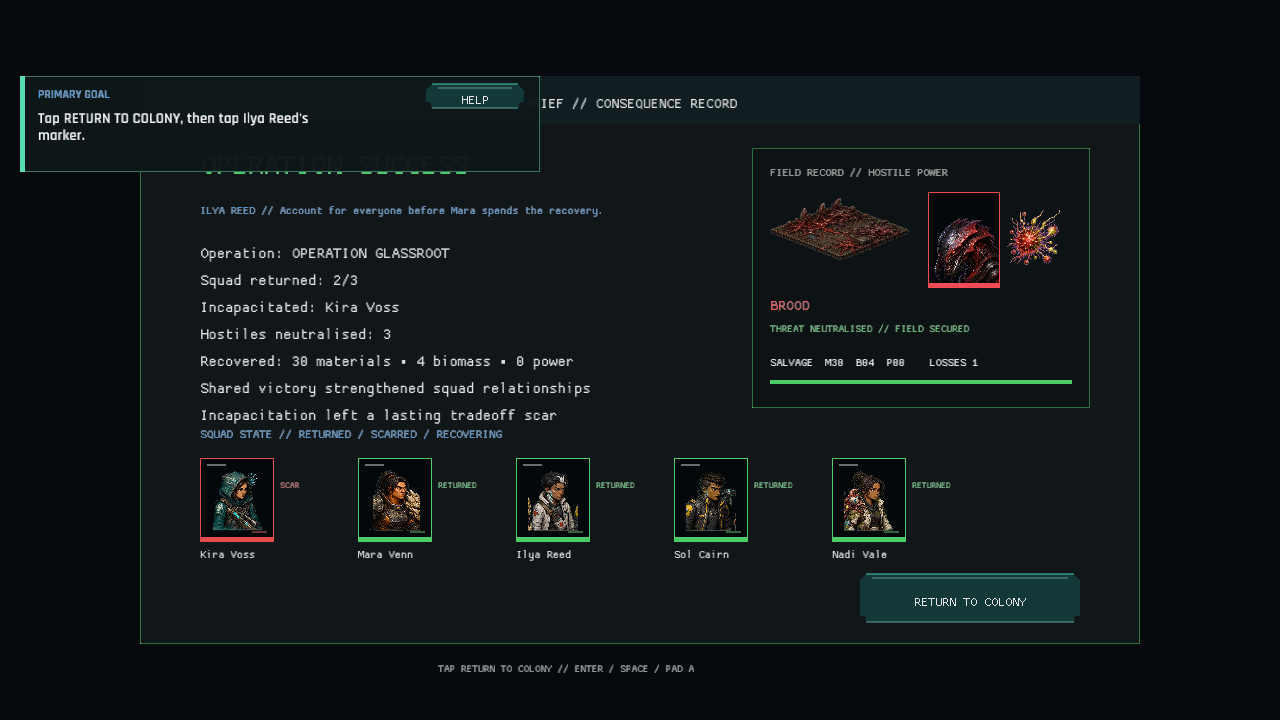
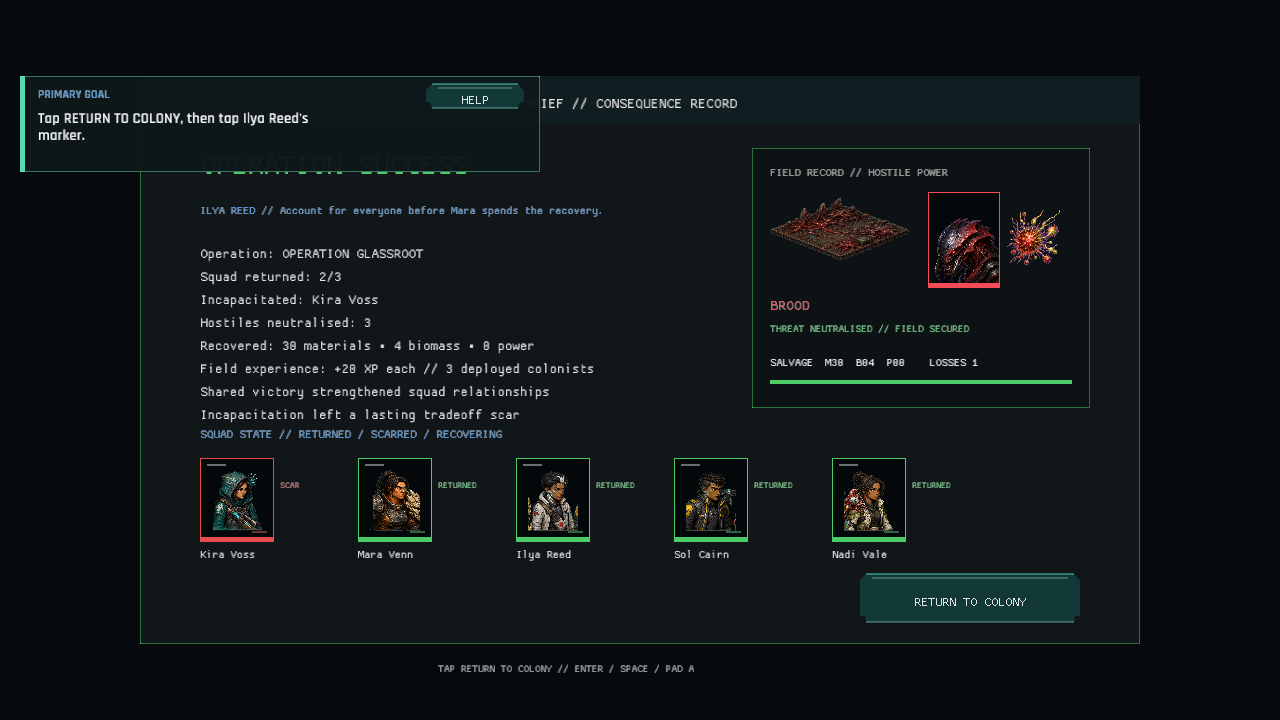
The mire records experience only for those who crossed the waterline (Deployed-squad XP attribution and debrief disclosure, §5.4)
Operation XP was being applied to the whole roster, allowing reserves to gain field experience without deploying. Centralize the victory and defeat XP values, award them only to the deployed squad, and disclose the per-colonist award in both victory and trauma debriefs. Add focused campaign and presentation tests, refresh the two affected captures, and advance the content record to 1.124.0 without adding save fields.

Changed region(s): [[0.1562, 0.3361, 0.4688, 0.5806]]

diff --git a/src/campaign/tests/test_part_1.rs b/src/campaign/tests/test_part_1.rs
@@ -276,6 +276,58 @@ fn squad_selection_enforces_reserves_and_a_three_colonist_limit() {
         .iter()
         .any(|unit| unit.id == "kira_voss"));
 }
+
+#[test]
+fn operation_xp_follows_the_deployed_squad() {
+    let data = GameData::load().unwrap();
+    let mut campaign = CampaignState::new(&data);
+    let deployed_id = campaign
+        .roster
+        .iter()
+        .find(|character| character.deployment_selected)
+        .unwrap()
+        .id
+        .clone();
+    let reserve_id = campaign
+        .roster
+        .iter()
+        .find(|character| !character.deployment_selected)
+        .unwrap()
+        .id
+        .clone();
+    let mission = campaign.strategy.selected_mission().unwrap().clone();
+    let outcome = MissionOutcome {
+        result: ObjectiveState::Victory,
+        colonists_deployed: SQUAD_LIMIT,
+        colonists_incapacitated: Vec::new(),
+        hostiles_neutralised: 2,
+        materials_awarded: 7,
+        biomass_awarded: 0,
+        power_awarded: 0,
+    };
+
+    campaign.apply_mission_outcome(&outcome, &mission, &data);
+
+    assert_eq!(
+        campaign
+            .roster
+            .iter()
+            .find(|character| character.id == deployed_id)
+            .unwrap()
+            .experience,
+        VICTORY_OPERATION_XP
+    );
+    assert_eq!(
+        campaign
+            .roster
+            .iter()
+            .find(|character| character.id == reserve_id)
+            .unwrap()
+            .experience,
+        0
+    );
+}
+
 #[test]
 fn injury_blocks_deployment_until_operations_recover_it() {
     let data = GameData::load().unwrap();

diff --git a/src/campaign.rs b/src/campaign.rs
@@ -33,6 +33,16 @@ use serde::{Deserialize, Serialize};
 use std::collections::BTreeMap;
 
 pub const SQUAD_LIMIT: usize = 3;
+pub const VICTORY_OPERATION_XP: u32 = 20;
+pub const FAILED_OPERATION_XP: u32 = 8;
+
+pub fn operation_experience(result: ObjectiveState) -> u32 {
+    match result {
+        ObjectiveState::Victory => VICTORY_OPERATION_XP,
+        ObjectiveState::Failed => FAILED_OPERATION_XP,
+        ObjectiveState::Active | ObjectiveState::Secured => 0,
+    }
+}
 
 #[derive(Debug, Clone, Copy, PartialEq, Eq, Serialize, Deserialize)]
 #[serde(rename_all = "snake_case")]
@@ -469,14 +479,16 @@ impl CampaignState {
         if outcome.result == ObjectiveState::Victory {
             self.strengthen_shared_victory(&deployed_ids);
         }
-        let xp = if outcome.result == ObjectiveState::Victory {
-            20
-        } else {
-            8
-        };
-        for character in &mut self.roster {
-            character.experience += xp;
-            character.level = 1 + (character.experience / 100).min(9) as u8;
+        let xp = operation_experience(outcome.result);
+        for character_id in &deployed_ids {
+            if let Some(character) = self
+                .roster
+                .iter_mut()
+                .find(|character| character.id == *character_id)
+            {
+                character.experience += xp;
+                character.level = 1 + (character.experience / 100).min(9) as u8;
+            }
         }
         crate::skill_training::learn_after_operation(self, &deployed_ids, data);
         self.apply_injury_consequences(outcome, data);

diff --git a/src/ui_debrief.rs b/src/ui_debrief.rs
@@ -11,6 +11,17 @@ use macroquad_toolkit::assets::AssetManager;
 use macroquad_toolkit::prelude::*;
 use macroquad_toolkit::ui::VirtualUi;
 
+#[cfg(test)]
+mod tests;
+
+fn experience_summary(outcome: &MissionOutcome) -> String {
+    format!(
+        "Field experience: +{} XP each // {} deployed colonists",
+        crate::campaign::operation_experience(outcome.result),
+        outcome.colonists_deployed
+    )
+}
+
 pub fn draw_debrief(
     mission: &MissionDef,
     outcome: &MissionOutcome,
@@ -111,6 +122,7 @@ pub fn draw_debrief(
             "Recovered: {} materials · {} biomass · {} power",
             outcome.materials_awarded, outcome.biomass_awarded, outcome.power_awarded
         ),
+        experience_summary(outcome),
     ];
     if won && outcome.colonists_deployed > 1 {
         report.push("Shared victory strengthened squad relationships".to_owned());
@@ -126,7 +138,7 @@ pub fn draw_debrief(
         report.push("Incapacitation left a lasting tradeoff scar".to_owned());
     }
     for (index, line) in report.iter().enumerate() {
-        draw_text(line, 200.0, 258.0 + index as f32 * 27.0, 19.0, dark::TEXT);
+        draw_text(line, 200.0, 258.0 + index as f32 * 23.0, 17.0, dark::TEXT);
     }
     draw_field_record(mission, outcome, assets, visuals, won);
     draw_squad_tableau(campaign, outcome, assets, visuals, won);

diff --git a/src/persistence/tests/first_hour.rs b/src/persistence/tests/first_hour.rs
@@ -20,7 +20,7 @@ fn previous_save_without_first_hour_fields_gains_safe_guidance() {
 
     let migrated = migrate_save_value(Some("1.63.0".to_owned()), value, &data).unwrap();
 
-    assert_eq!(migrated.version, "1.123.0");
+    assert_eq!(migrated.version, "1.124.0");
     assert_eq!(migrated.campaign.first_hour, FirstHourProgress::default());
     assert_eq!(migrated.campaign.first_hour.stage, FirstHourStage::Arrival);
     assert_eq!(
@@ -46,7 +46,7 @@ fn previous_save_without_colony_story_fields_gains_an_empty_ledger() {
 
     let migrated = migrate_save_value(Some("1.65.0".to_owned()), value, &data).unwrap();
 
-    assert_eq!(migrated.version, "1.123.0");
+    assert_eq!(migrated.version, "1.124.0");
     assert_eq!(
         migrated.campaign.colony_story,
         crate::colony_story::ColonyStoryState::default()
@@ -72,7 +72,7 @@ fn version_164_keeps_exact_onboarding_progress_and_defaults_metrics() {
 
     let migrated = migrate_save_value(Some("1.64.0".to_owned()), value, &data).unwrap();
 
-    assert_eq!(migrated.version, "1.123.0");
+    assert_eq!(migrated.version, "1.124.0");
     assert_eq!(
         migrated.campaign.first_hour.stage,
         FirstHourStage::SecondReturn

diff --git a/src/ui_debrief/tests.rs b/src/ui_debrief/tests.rs
@@ -1,0 +1,30 @@
+use super::*;
+use crate::state::ObjectiveState;
+
+fn outcome(result: ObjectiveState, colonists_deployed: usize) -> MissionOutcome {
+    MissionOutcome {
+        result,
+        colonists_deployed,
+        colonists_incapacitated: Vec::new(),
+        hostiles_neutralised: 0,
+        materials_awarded: 0,
+        biomass_awarded: 0,
+        power_awarded: 0,
+    }
+}
+
+#[test]
+fn experience_summary_discloses_victory_award_per_deployed_colonist() {
+    assert_eq!(
+        experience_summary(&outcome(ObjectiveState::Victory, 3)),
+        "Field experience: +20 XP each // 3 deployed colonists"
+    );
+}
+
+#[test]
+fn experience_summary_discloses_defeat_award_per_deployed_colonist() {
+    assert_eq!(
+        experience_summary(&outcome(ObjectiveState::Failed, 2)),
+        "Field experience: +8 XP each // 2 deployed colonists"
+    );
+}

diff --git a/docs/PHASE_1_ACCEPTANCE_MATRIX.md b/docs/PHASE_1_ACCEPTANCE_MATRIX.md
@@ -1,7 +1,7 @@
 # Phase 1 Acceptance Matrix
 
 Status: implementation evidence audited; observed-session gates pending
-Audit baseline: save/content 1.123.0, validated and committed with this matrix
+Audit baseline: save/content 1.124.0, validated and committed with this matrix
 
 This matrix maps every Phase 1 workstream and definition-of-done requirement to
 authoritative evidence. `VERIFIED` means code, tests, captures, or an operator-run path
@@ -17,7 +17,7 @@ developer are not substitutes for that evidence.
 | D02 | Five first-time players complete without external instructions | Five empty required rows in `PHASE_1_PLAYTEST_LOG.md` | HUMAN PENDING |
 | D03 | At least two end-to-end runs use visible touch/click controls only | Touch-primary rows 2 and 4 await observed runs | HUMAN PENDING |
 | D04 | Operation one teaches the core loop and operation two demonstrates transfer | Ordered `TacticalLesson` transitions, a cover-tile-gated first move, reachable opening firing lane and objective route, guided forecast confirmation, contextual tactical focus, a persisted `SecondOperationTactical` focus, colony-side handoff focus, usable ability recovery, and unscripted second-operation play; player transfer must still be observed | IMPLEMENTED / HUMAN PENDING |
-| D05 | City supplies direction, preparation, character connection, and visible consequences | `first_hour_ui.rs`, `first_hour_investment_ui.rs`, colony conversations, outcome-sensitive `first_hour_consequences_ui.rs`, and colony/debrief captures | VERIFIED |
+| D05 | City supplies direction, preparation, character connection, and visible consequences | `first_hour_ui.rs`, `first_hour_investment_ui.rs`, colony conversations, outcome-sensitive `first_hour_consequences_ui.rs`, deployed-squad XP disclosure, and colony/debrief captures | VERIFIED |
 | D06 | First investment has a clear observable effect | Three 24-material preparations, persistent Operations/tactical breadcrumbs in `ui_first_hour_operations.png` and `ui_second_operation_tactical.png`, and `first_investment_changes_only_the_second_deployment` | VERIFIED |
 | D07 | Victory, defeat, save, continue, refresh, and resize paths are verified | `PHASE_1_HARDENING.md`, persistence/outcome tests, and the recorded WebGL operator pass | VERIFIED |
 | D08 | Audio/settings exist and critical information remains visual | `audio.rs`, audio tests, settings UI, event prose/markers, and browser persistence pass; fatigue remains an observation target | VERIFIED / HUMAN PENDING |

diff --git a/TECHNICAL_DESIGN.md b/TECHNICAL_DESIGN.md
@@ -2,7 +2,7 @@
 
 Status: systems-rich tech demo; playable-game refinement in progress
 Current production target: cohesive first-hour playable build
-Save/content version: 1.123.0
+Save/content version: 1.124.0
 Target platforms: Windows and browser/WASM
 Runtime: Rust 2021, Macroquad, macroquad-toolkit
 
@@ -410,9 +410,9 @@ saves without disturbing their three-colonist deployment choice.
 Trait hooks whose owning combat or economy system does not yet exist remain derived
 values; extend the owning system rather than adding mutation-specific switches.
 
-Mission completion grants XP. Incapacitated colonists receive an operation-counted
-injury and cannot deploy until recovery completes. The infirmary can accelerate the
-first active recovery.
+Mission completion grants XP to deployed colonists: 20 for victory and 8 for defeat.
+Incapacitated colonists receive an operation-counted injury and cannot deploy until
+recovery completes. The infirmary can accelerate the first active recovery.
 
 ## 7. Colony Contract
 
@@ -898,6 +898,7 @@ Migration coverage:
 | 1.121.0 | First return separates debrief travel from the pending Ilya conversation so each screen names its visible next action |
 | 1.122.0 | Active first-hour preparation remains visible beside the second-operation mission offer; no new save fields |
 | 1.123.0 | Active first-hour preparation remains visible in the second-operation tactical header; no new save fields |
+| 1.124.0 | Operation XP follows the deployed squad and is disclosed in the debrief; no new save fields |
 
 Every future schema bump must migrate the immediately previous version and add a
 fixture test. Validate saved content IDs before adding content removal or renaming.
@@ -949,7 +950,7 @@ The completion baseline is:
 
 - `cargo fmt -- --check`
 - `cargo clippy --all-targets --all-features -- -D warnings`
-- `cargo test` (383 Mirexis unit tests plus asset-registry and source-size gates)
+- `cargo test` (386 Mirexis unit tests plus asset-registry and source-size gates)
 - deterministic 92-scene capture with visual inspection
 - `.\publish.ps1` with no parameters (Windows release, WebGL release, packaging,
   preview deployment, and catalog update)

diff --git a/docs/verification/FINAL_CAPTURE_INVENTORY.md b/docs/verification/FINAL_CAPTURE_INVENTORY.md
@@ -123,5 +123,5 @@ Manifest: `scripts/capture_ui.ps1`
[7 lines of base64/hex data omitted]

diff --git a/docs/PHASE_1_HARDENING.md b/docs/PHASE_1_HARDENING.md
@@ -31,13 +31,14 @@ Status: automated and internal verification complete; external playtests pending
 
 ## Automated verification baseline
 
-- 383 Mirexis unit tests pass.
+- 386 Mirexis unit tests pass.
 - External asset-registry and Rust source-size gates pass.
 - `publish.ps1` passes without parameters for Windows and WebGL and deploys to preview.
 - The canonical set contains 92 audited 1280×720 scenes, including the first-hour
   field guide, guided tactical lesson, second-operation tactical lesson, actionable
-  ability lesson, first-return recovery handoff, promise consequence, and colony handoff; forecast and first-hour layout changes replace
-  their affected images.
+  ability lesson, first-return recovery handoff, promise consequence, and colony handoff;
+  debrief XP disclosure and forecast/first-hour layout changes replace their affected
+  images.
 
 ## Honest boundary
 
